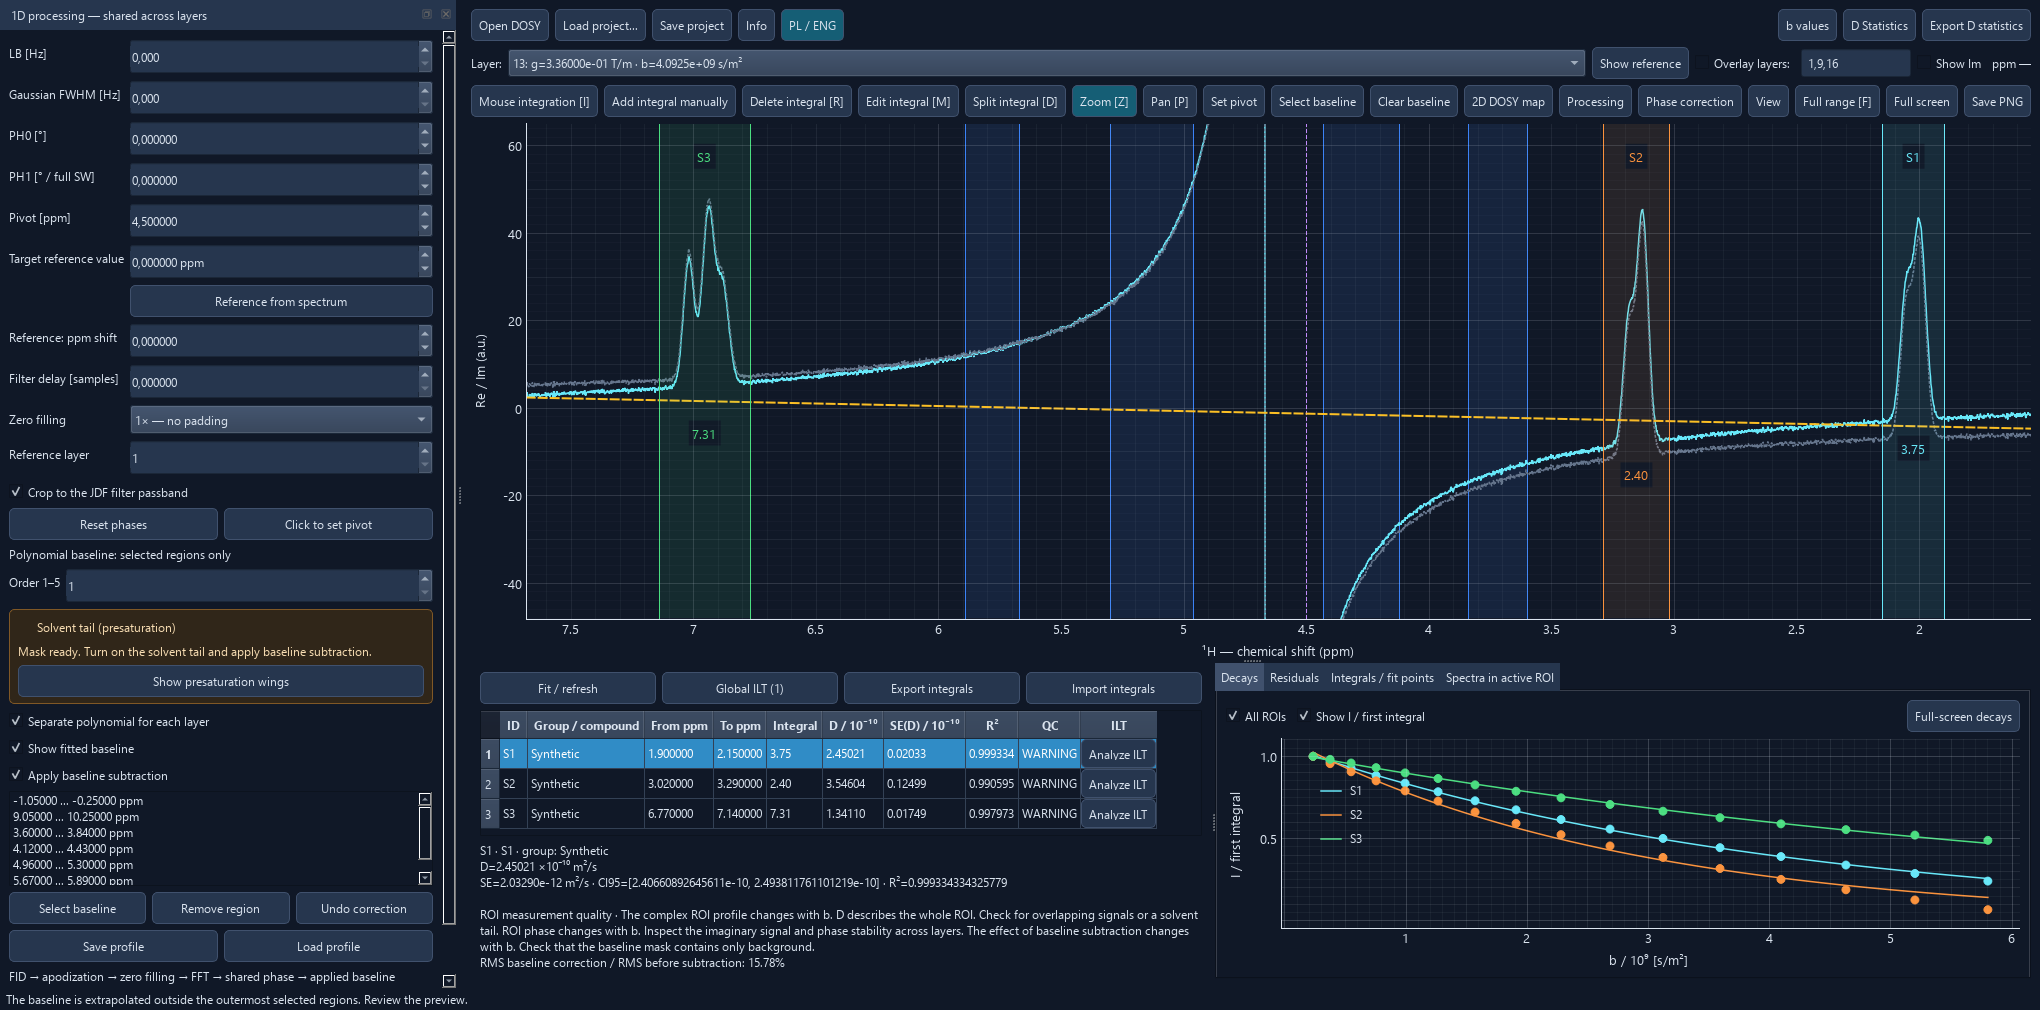
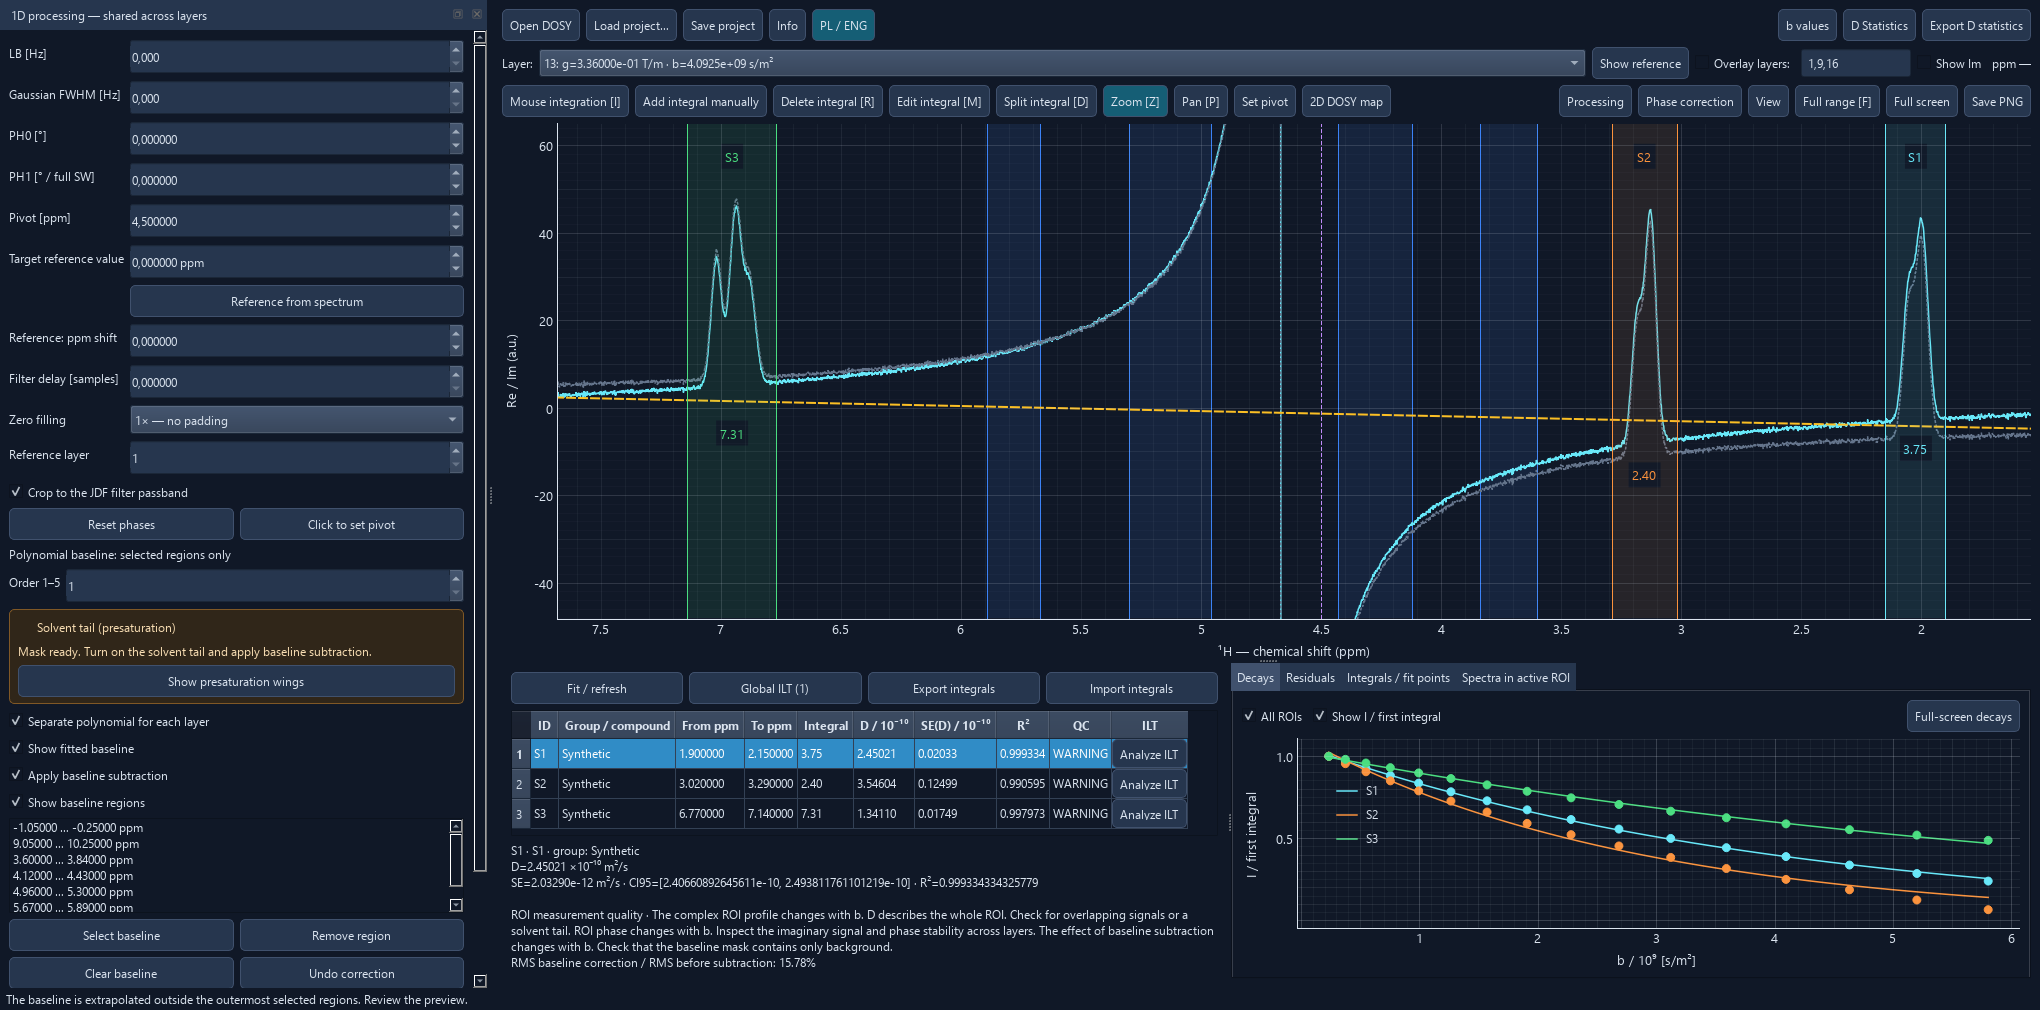
Release DOSY Lab 2.1.3 with baseline display controls

diff --git a/bin/ui.py b/bin/ui.py
@@ -146,12 +146,8 @@ class Window(QtWidgets.QMainWindow):
             ('zoom','Zoom',tr('Przeciągnij, aby powiększyć zakres ppm.')),
             ('pan',tr('Przesuwaj'),tr('Przeciągnij, aby przesunąć widok widma.')),
             ('pivot',tr('Ustaw pivot'),tr('Kliknij widmo, aby ustawić punkt obrotu korekcji fazy.')),
-            ('baseline',tr('Zaznacz bazę'),tr('Zaznacz fragmenty bez pików, z których program wyznaczy linię bazową. Żółta linia to podgląd.')),
         ):
             self.tool_button(key,label,spectrum_tools,hint)
-        self.clear_baseline_button = self.button(tr('Wyczyść bazę'),self.clear_baseline,spectrum_tools,
-                                                 tr('Usuń wszystkie niebieskie obszary bazy i wyłącz jej odejmowanie.'))
-        self.clear_baseline_button.setEnabled(False)
         self.map_button = self.button(tr('Mapa DOSY 2D'), self.show_map, spectrum_tools,
                                       tr('Pokaż mapę ppm × D z całek i aktualnych dopasowań.'))
         self.map_button.setEnabled(False)
@@ -244,6 +240,10 @@ class Window(QtWidgets.QMainWindow):
         vertical.setSizes([560,330]);bottom.setSizes([680,750])
         self.processing=ProcessingPanel(self);self.addDockWidget(QtCore.Qt.DockWidgetArea.LeftDockWidgetArea,self.processing)
         self.mode_buttons['reference'] = self.processing.reference_button
+        self.mode_buttons['baseline'] = self.processing.baseline_button
+        self.processing.clear_baseline_button.clicked.connect(self.clear_baseline)
+        self.processing.show_baseline_regions.setChecked(self.settings.value('spectrum/showBaselineRegions', True, type=bool))
+        self.processing.show_baseline_regions.toggled.connect(self.set_baseline_region_visibility)
         self.processing.changed.connect(self.request_calculation);self.processing.mode_requested.connect(self.set_mode)
         self.processing.solvent_wings_requested.connect(self.toggle_solvent_wings)
         self.statusBar().showMessage(tr('Przeciągnięcie powiększa zakres. Rolka zmienia wysokość widma. Dwuklik przywraca cały zakres.'))
@@ -404,7 +404,6 @@ class Window(QtWidgets.QMainWindow):
         self.signal_labels = {}
         self.spectrum.clear();self.region_items={};self.base_items=[]
         self.view.split_regions = self.region_items
-        self.clear_baseline_button.setEnabled(bool(self.processing.regions))
         d=self.dataset
         if self.solvent_baseline_guide:
             for bounds in self.processing.solvent_ranges():
@@ -440,7 +439,10 @@ class Window(QtWidgets.QMainWindow):
             item.sigRegionChanged.connect(self.position_integral_labels)
         for bounds in self.processing.regions:
             item=pg.LinearRegionItem(bounds,movable=False,brush=pg.mkBrush(60,110,200,35),pen=pg.mkPen('#3b82f6'))
-            item.setZValue(-2);self.spectrum.addItem(item);self.base_items.append(item)
+            item.setZValue(-2)
+            item.setVisible(self.processing.show_baseline_regions.isChecked())
+            self.spectrum.addItem(item, ignoreBounds=True)
+            self.base_items.append(item)
         self.pivot_line=pg.InfiniteLine(self.processing.controls['pivot_ppm'].value(),movable=self.view.mode=='pivot',pen=pg.mkPen('#c084fc',style=QtCore.Qt.PenStyle.DashLine))
         self.pivot_line.setAcceptedMouseButtons(QtCore.Qt.MouseButton.LeftButton if self.view.mode=='pivot' else QtCore.Qt.MouseButton.NoButton)
         self.pivot_line.sigPositionChangeFinished.connect(lambda line:self.pivot_clicked(line.value()))
@@ -548,6 +550,11 @@ class Window(QtWidgets.QMainWindow):
             low, high = np.percentile(intensity, (3., 85.))
             if high > low:
                 self.spectrum.setYRange(low, high, padding=.12)
+
+    def set_baseline_region_visibility(self, visible):
+        self.settings.setValue('spectrum/showBaselineRegions', visible)
+        for item in self.base_items:
+            item.setVisible(visible)
 
     def clear_baseline(self):
         self.processing.clear_regions()

diff --git a/bin/processing_panel.py b/bin/processing_panel.py
@@ -71,10 +71,28 @@ class ProcessingPanel(QtWidgets.QDockWidget):
         per_layer=self.controls['baseline_per_layer']
         per_layer.setChecked(True)
         per_layer.setToolTip(tr('Przełącza sposób podglądu. Zatwierdzona korekcja zawsze odejmuje osobną bazę od każdej warstwy.'))
+        self.show_baseline_regions = QtWidgets.QCheckBox(tr('Pokaż obszary bazy'))
+        self.show_baseline_regions.setChecked(True)
+        self.show_baseline_regions.setToolTip(tr('Pokaż lub ukryj niebieskie obszary bazy na widmie. Korekcja nadal korzysta z zapisanych obszarów.'))
+        layout.addWidget(self.show_baseline_regions)
         self.base_list=QtWidgets.QListWidget();self.base_list.setMaximumHeight(95);layout.addWidget(self.base_list)
-        row=QtWidgets.QHBoxLayout();layout.addLayout(row)
-        for text,fn in [(tr('Zaznacz bazę'),lambda:self.mode_requested.emit('baseline')),(tr('Usuń obszar'),self.remove_region),(tr('Cofnij korekcję'),self.undo_baseline)]:
-            b=QtWidgets.QPushButton(text);b.clicked.connect(fn);row.addWidget(b)
+        actions = QtWidgets.QGridLayout()
+        layout.addLayout(actions)
+        self.baseline_button = QtWidgets.QPushButton(tr('Zaznacz bazę'))
+        self.baseline_button.setCheckable(True)
+        self.baseline_button.setToolTip(tr('Zaznacz fragmenty bez pików, z których program wyznaczy linię bazową. Żółta linia to podgląd.'))
+        self.baseline_button.clicked.connect(lambda checked: self.mode_requested.emit('baseline' if checked else 'zoom'))
+        actions.addWidget(self.baseline_button, 0, 0)
+        remove_region = QtWidgets.QPushButton(tr('Usuń obszar'))
+        remove_region.clicked.connect(self.remove_region)
+        actions.addWidget(remove_region, 0, 1)
+        self.clear_baseline_button = QtWidgets.QPushButton(tr('Wyczyść bazę'))
+        self.clear_baseline_button.setToolTip(tr('Usuń wszystkie niebieskie obszary bazy i wyłącz jej odejmowanie.'))
+        self.clear_baseline_button.setEnabled(False)
+        actions.addWidget(self.clear_baseline_button, 1, 0)
+        undo_baseline = QtWidgets.QPushButton(tr('Cofnij korekcję'))
+        undo_baseline.clicked.connect(self.undo_baseline)
+        actions.addWidget(undo_baseline, 1, 1)
         solvent_panel = QtWidgets.QFrame()
         solvent_panel.setObjectName('solventTailPanel')
         solvent_panel.setStyleSheet('''
@@ -171,6 +189,7 @@ class ProcessingPanel(QtWidgets.QDockWidget):
     def refresh_regions(self):
         self.base_list.clear()
         for a,b in self.regions:self.base_list.addItem(f'{min(a,b):.5f} … {max(a,b):.5f} ppm')
+        self.clear_baseline_button.setEnabled(bool(self.regions))
         self.update_solvent_setup()
 
     def add_region(self,bounds):

diff --git a/tests/test_gui.py b/tests/test_gui.py
@@ -349,17 +349,48 @@ class InterfaceTests(unittest.TestCase):
         w.processing.add_region([5.65,6.1])
         w.processing.controls['baseline_enabled'].setChecked(True)
         settle(w)
-        self.assertTrue(w.clear_baseline_button.isEnabled())
+        panel = w.processing
+        self.assertTrue(panel.clear_baseline_button.isEnabled())
         self.assertFalse(np.array_equal(before,w.dataset.spectrum))
-        w.mode_buttons['baseline'].click()
-        w.clear_baseline_button.click()
+        panel.baseline_button.click()
+        self.assertEqual(w.view.mode, 'baseline')
+        panel.clear_baseline_button.click()
         settle(w)
+        self.assertFalse(panel.clear_baseline_button.isEnabled())
+        self.assertFalse(panel.baseline_button.isChecked())
         self.assertEqual(w.processing.regions,[])
         self.assertEqual(w.base_items,[])
         self.assertFalse(w.dataset.options['baseline_enabled'])
         self.assertIsNone(w.dataset.diagnostics['baseline'])
         self.assertEqual(w.view.mode,'zoom')
         np.testing.assert_array_equal(w.dataset.spectrum,before)
+
+    def test_baseline_region_visibility_is_independent_of_processing(self):
+        w = self.w
+        panel = w.processing
+        panel.show()
+        panel.add_region([2.65, 2.95])
+        panel.add_region([5.65, 6.1])
+        panel.controls['baseline_enabled'].setChecked(True)
+        settle(w)
+        toolbar_labels = {button.text() for button in w.centralWidget().findChildren(QtWidgets.QPushButton)}
+        self.assertFalse({'Zaznacz bazę', 'Wyczyść bazę'} & toolbar_labels)
+        self.assertEqual(len(w.base_items), 2)
+        self.assertTrue(all(item.isVisible() for item in w.base_items))
+        dataset, revision = w.dataset, w.revision
+        panel.show_baseline_regions.click()
+        self.assertTrue(all(not item.isVisible() for item in w.base_items))
+        self.assertFalse(w.settings.value('spectrum/showBaselineRegions', type=bool))
+        self.assertIs(w.dataset, dataset)
+        self.assertEqual(w.revision, revision)
+        self.assertEqual(panel.base_list.count(), 2)
+        self.assertTrue(any(curve.opts['pen'].color().name() == '#fbbf24'
+                            for curve in w.spectrum.listDataItems()))
+        w.layer.setCurrentIndex(1)
+        self.assertTrue(all(not item.isVisible() for item in w.base_items))
+        panel.show_baseline_regions.click()
+        self.assertTrue(all(item.isVisible() for item in w.base_items))
+        self.assertEqual(w.revision, revision)
 
     def test_dialogs_start_in_workspace_folders_and_filter_extensions(self):
         w=self.w

diff --git a/bin/version.py b/bin/version.py
@@ -1,1 +1,1 @@
-VERSION = '2.1.2'
+VERSION = '2.1.3'

diff --git a/docs/INSTRUKCJA.md b/docs/INSTRUKCJA.md
@@ -1,4 +1,4 @@
-# DOSY Lab 2.1.2 user guide
+# DOSY Lab 2.1.3 user guide
 
 [Back to the README](../README.md)
 
@@ -88,18 +88,18 @@ When the JDF contains suitable decimation metadata, DOSY Lab estimates the filte
 
 ## 4. Baseline correction
 
-Choose **Select baseline** and draw several peak-free intervals, preferably on both sides of the signals to integrate. Blue bands mark the shared mask and yellow curves preview the fitted baselines.
+Open **Processing**, choose **Select baseline**, and draw several peak-free intervals, preferably on both sides of the signals to integrate. **Show baseline regions** toggles the blue bands that mark the shared mask. **Show fitted baseline** controls the yellow dashed preview separately. The region visibility preference applies across projects. The fit uses the selected regions whether the blue bands are visible or hidden.
 
 The default polynomial order is **1**. **Separate polynomial for each layer** is enabled by default and fits an independent line or polynomial to each layer on the same ppm mask. Before applying the correction you may preview the reference-layer fit instead. **Apply baseline subtraction** always subtracts each layer’s own fitted baseline before integration. This also applies when reopening projects with baseline subtraction enabled.
 
-Keep the blue baseline intervals clear of all ROIs. The fit extrapolates outside the outermost mask regions. Review the preview there before applying it. In **Processing**, use **Remove region** to remove one selected interval or **Undo correction** to disable subtraction while keeping the mask. **Clear baseline** above the spectrum removes the entire mask.
+Keep the baseline intervals clear of all ROIs. The fit extrapolates outside the outermost mask regions. Review the preview there before applying it. In **Processing**, use **Remove region** to remove one selected interval, **Clear baseline** to remove the entire mask and disable subtraction, or **Undo correction** to disable subtraction while keeping the mask.
 
 ### Presaturation and residual solvent
 
 Use the amber **Solvent tail (presaturation)** panel in **Processing** when the residual solvent has dispersive wings of opposite sign. The JDF must record proton presaturation and the irradiation position in ppm.
 
 1. Keep the existing peak-free background regions away from the solvent. Click **Show presaturation wings** to zoom in and enter baseline selection.
-2. Draw a short peak-free interval in each orange band, between 0.15 and 1.50 ppm from the irradiation position. Keep the selections clear of the solvent core and all ROIs. The blue intervals are the fit mask. **Hide presaturation wings** clears the orange guides and keeps the blue intervals visible.
+2. Draw a short peak-free interval in each orange band, between 0.15 and 1.50 ppm from the irradiation position. Keep the selections clear of the solvent core and all ROIs. **Hide presaturation wings** clears the orange guides. **Show baseline regions** controls the visibility of the blue fit mask.
 3. When the panel says the mask is ready, turn on **Solvent tail (presaturation)**. Start with a first-order polynomial and enable **Show fitted baseline**. The yellow dashed line shows the model for the displayed layer. Check it at low, middle and high gradient.
 4. Select **Apply baseline subtraction** to recalculate the signed integrals. Check the spectrum and decay residuals before saving the project or processing profile.
 
@@ -220,7 +220,7 @@ An export bundle can contain complete measurement data and the embedded pulse pr
 
 ![2D DOSY map with the linked 1D spectrum, ROI list and crosshair](images/mapa-dosy-2d.png)
 
-1. Define integrals and complete their fits. Click **2D DOSY map** next to **Clear baseline**.
+1. Define integrals and complete their fits. Click **2D DOSY map** on the main spectrum toolbar.
 2. Use **Groups / compounds** to hide an entire group or **Signals** to hide individual ROIs. Turning a group back on preserves individual selections. A displayed ROI must have a successful fit with finite, positive D. The checkboxes affect the map only.
 3. Use **Zoom [Z]** to drag a rectangle, **Pan [P]** to move, or **Full range [F]** to reset. The ppm zoom is linked to the 1D spectrum above.
 4. Use **Point / crosshair** to read ppm and D. The vertical guide extends into the proton spectrum. Enable **D projection** to sum the positive map intensity across ppm for each D and show the horizontal guide on the left. The sum uses the displayed ROIs before the visual floor and gain are applied. Press **Delete** to clear the guides and label. PNG export includes the projection and guides when visible.

diff --git a/README.md b/README.md
@@ -1,6 +1,6 @@
-# DOSY Lab 2.1.2
+# DOSY Lab 2.1.3
 
-DOSY Lab is a Windows desktop application for classical 1D diffusion NMR acquired on JEOL instruments. It opens raw JDF gradient series, processes the complex FIDs with a shared phase, and estimates the diffusion coefficient **D** from the decay of selected integrals. Version 2.1.2 adds an optional dispersive solvent-tail baseline for presaturated spectra and fixes keyboard entry of ILT regularization parameters.
+DOSY Lab is a Windows desktop application for classical 1D diffusion NMR acquired on JEOL instruments. It opens raw JDF gradient series, processes the complex FIDs with a shared phase, and estimates the diffusion coefficient **D** from the decay of selected integrals. Version 2.1.3 moves baseline controls into **Processing** and adds a separate toggle for the shaded baseline regions.
 
 ![DOSY Lab main window with the reference spectrum, integration regions and decay plot](docs/images/widmo-integracja.png)
 
@@ -21,13 +21,13 @@ DOSY Lab is a Windows desktop application for classical 1D diffusion NMR acquire
 
 ## Presaturation baseline correction
 
-In **Processing**, the amber **Solvent tail (presaturation)** panel helps you select peak-free background on both sides of the residual solvent signal. Enable **Show fitted baseline** to see the fitted correction as a yellow dashed line. Once you apply subtraction, DOSY Lab integrates the corrected signed spectrum using the existing ROI bounds. [Step-by-step guide and before/after comparison](docs/INSTRUKCJA.md#presaturation-and-residual-solvent)
+In **Processing**, the amber **Solvent tail (presaturation)** panel helps you select peak-free background on both sides of the residual solvent signal. Enable **Show fitted baseline** to see the fitted correction as a yellow dashed line. Use **Show baseline regions** to control the blue shading separately. Once you apply subtraction, DOSY Lab integrates the corrected signed spectrum using the existing ROI bounds. [Step-by-step guide and before/after comparison](docs/INSTRUKCJA.md#presaturation-and-residual-solvent)
 
 ![Synthetic DOSY spectrum after solvent-tail correction, showing the yellow dashed fitted baseline and the corrected spectrum](docs/images/presaturation-tail-corrected.png)
 
 ## Installation on Windows
 
-Use Windows with Python 3.11 or newer. The launcher needs internet access on first installation to download its Python dependencies. Extract the DOSY Lab 2.1.2 source archive, or clone the repository. To run this release exactly, check out the `v2.1.2` tag.
+Use Windows with Python 3.11 or newer. The launcher needs internet access on first installation to download its Python dependencies. Extract the DOSY Lab 2.1.3 source archive, or clone the repository. To run this release exactly, check out the `v2.1.3` tag.
 
 ~~~powershell
 git clone https://github.com/Prospero1988/DOSY_lab.git
@@ -104,7 +104,7 @@ The [user guide](docs/INSTRUKCJA.md) walks through opening data, processing, pha
 - [Automatic regularization and stability](docs/ILT_REGULARIZATION_2.1.md)
 - [Scientific QC and validation](docs/QC_AND_MAPS_2.1.md)
 - [Scientific audit archive and reproduction](audit/README.md)
-- [2.1.2 release notes](docs/RELEASE-2.1.2.md) and [changelog](CHANGELOG.md)
+- [2.1.3 release notes](docs/RELEASE-2.1.3.md) and [changelog](CHANGELOG.md)
 
 ## Input and scope
 

diff --git a/docs/RELEASE-2.1.3.md b/docs/RELEASE-2.1.3.md
@@ -1,0 +1,6 @@
+# DOSY Lab 2.1.3 release notes
+
+- **Processing → Show baseline regions** controls the blue shaded areas on the spectrum. The setting is remembered across sessions. The selected regions still define the fitted baseline when their shading is hidden.
+- **Select baseline** and **Clear baseline** are now in **Processing**. The yellow fitted baseline preview and the orange presaturation guides retain their own controls.
+
+[Baseline correction guide](INSTRUKCJA.md#4-baseline-correction) · [Changelog](../CHANGELOG.md)

diff --git a/CHANGELOG.md b/CHANGELOG.md
@@ -1,5 +1,10 @@
 # Changelog
 
+## 2.1.3 · 2026-11-17
+
+- Add a Processing preference to show or hide the blue baseline regions independently of the fitted baseline preview.
+- Put **Select baseline** and **Clear baseline** in Processing and remove their main-toolbar buttons.
+
 ## 2.1.2 · 2026-11-17
 
 - Add optional per-layer solvent-tail baseline correction for presaturated proton DOSY with a recorded irradiation position in ppm.
